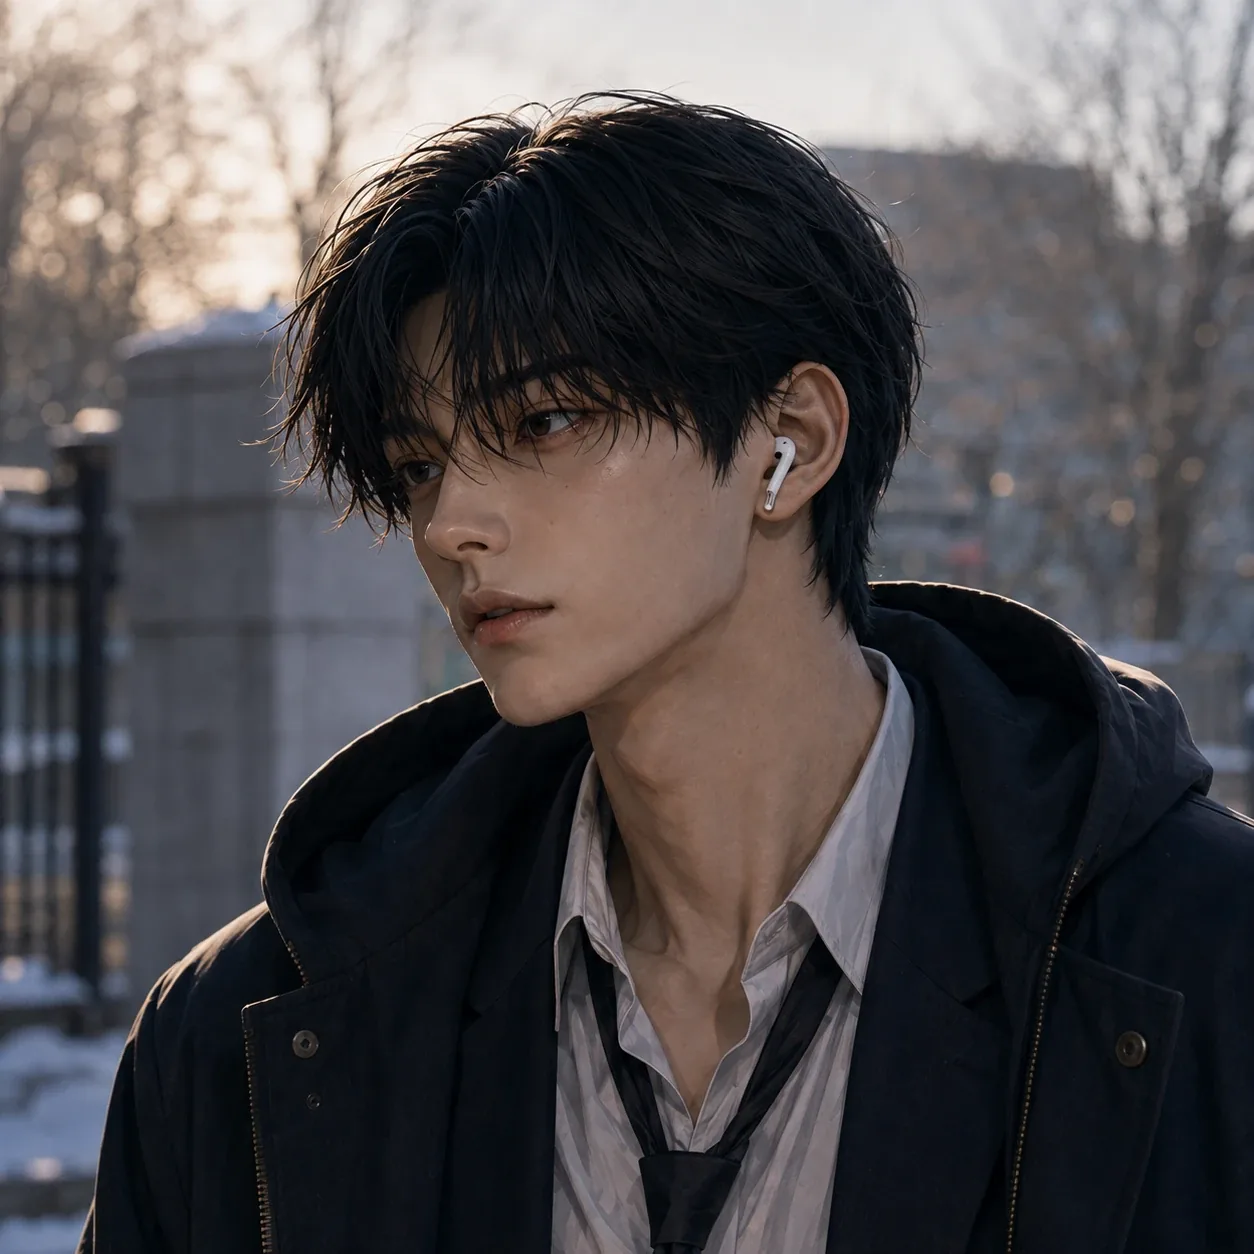
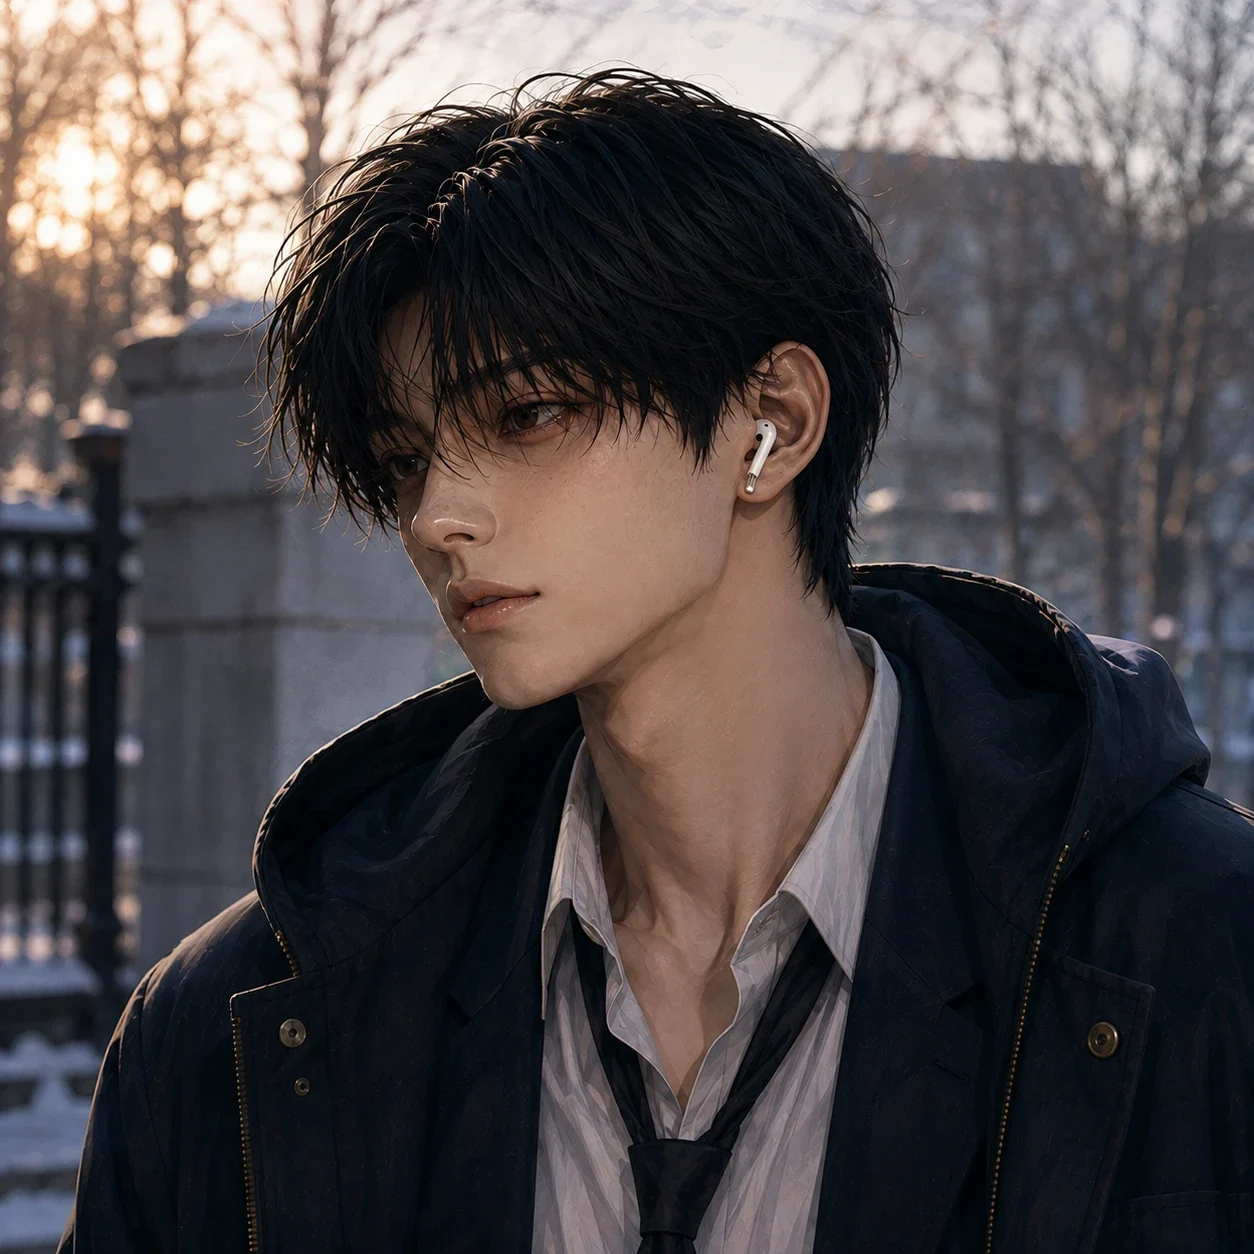
민현 프사를 바꾸고, 잘못 넣은 사진 두 장을 민현 쪽으로 옮긴다
지난 커밋에서 벤치·책상 사진을 재언으로 넣었는데 둘 다 민현이었다.
파일명·갤러리·백엔드 사진첩을 전부 민현으로 옮기고, 보내는 조건도
민현 말투에 맞게 다시 썼다. 책상 사진은 "고3 때 옛날 사진"이 아니라
지금 교실에서 짝이 찍어준 것이다.

프사는 파일명이 같아서 브라우저·CDN이 옛 이미지를 계속 쓴다.
AV_V를 v3으로 올린다.

Claude-Session: https://claude.ai/code/session_01437N5arYTDRea9BKubBq2J

diff --git a/index.html b/index.html
@@ -706,14 +706,14 @@ const API = "https://null-api.re-moonroom.workers.dev/";
 
 /* 프사를 교체해도 파일명이 같으면 브라우저·CDN이 옛 이미지를 계속 쓴다.
    사진을 갈아끼울 때마다 이 숫자를 올린다. */
-const AV_V = "?v=2";
+const AV_V = "?v=3";
 
 /* 캐릭터 / 방 정의 */
 const CHARS = {
   jaeeon:{name:"이재언",color:"#7FD8D8",dk:"#2fa8a0",pale:"#cef0ee",img:"jaeeon-profile.webp",zoom:"150%",pos:"50% 22%",
-    gallery:["jaeeon-treat.webp","jaeeon-care.webp","jaeeon-cook.webp","jaeeon-work.webp","jaeeon-evening.webp","jaeeon-market.webp","jaeeon-laundry.webp","jaeeon-car.webp","jaeeon-classroom.webp","jaeeon-rooftop.webp","jaeeon-curtain.webp","jaeeon-shelf.webp","jaeeon-bench.webp","jaeeon-desk.webp"]},
+    gallery:["jaeeon-treat.webp","jaeeon-care.webp","jaeeon-cook.webp","jaeeon-work.webp","jaeeon-evening.webp","jaeeon-market.webp","jaeeon-laundry.webp","jaeeon-car.webp","jaeeon-classroom.webp","jaeeon-rooftop.webp","jaeeon-curtain.webp","jaeeon-shelf.webp"]},
   minhyun:{name:"이민현",color:"#FF9E80",dk:"#f0764a",pale:"#ffe0d2",img:"minhyun-profile.webp",zoom:"150%",pos:"50% 22%",
-    gallery:["minhyun-candy.webp","minhyun-corridor.webp","minhyun-rain.webp","minhyun-gate.webp","minhyun-morning.webp","minhyun-alley.webp","minhyun-store.webp","minhyun-gym.webp","minhyun-busstop.webp","minhyun-winter.webp","minhyun-snow.webp"]},
+    gallery:["minhyun-candy.webp","minhyun-corridor.webp","minhyun-rain.webp","minhyun-gate.webp","minhyun-morning.webp","minhyun-alley.webp","minhyun-store.webp","minhyun-gym.webp","minhyun-busstop.webp","minhyun-winter.webp","minhyun-snow.webp","minhyun-bench.webp","minhyun-desk.webp"]},
 };
 const ROOMS = [
   {id:"jaeeon", name:"이재언", color:"#7FD8D8", type:"dm",    sub:"보건교사",   empty:"보건교사, 29세"},

diff --git a/app/App.tsx b/app/App.tsx
@@ -40,8 +40,8 @@ const ROOMS = [
 
 /* 갤러리(Cam 탭) — 웹 버전과 동일. PHOTOS 키도 여기서 파생 */
 const GALLERY:Record<string,string[]> = {
-  jaeeon:['jaeeon-treat','jaeeon-care','jaeeon-cook','jaeeon-work','jaeeon-evening','jaeeon-market','jaeeon-laundry','jaeeon-car','jaeeon-classroom','jaeeon-rooftop','jaeeon-curtain','jaeeon-shelf','jaeeon-bench','jaeeon-desk'],
-  minhyun:['minhyun-candy','minhyun-corridor','minhyun-rain','minhyun-gate','minhyun-morning','minhyun-alley','minhyun-store','minhyun-gym','minhyun-busstop','minhyun-winter','minhyun-snow'],
+  jaeeon:['jaeeon-treat','jaeeon-care','jaeeon-cook','jaeeon-work','jaeeon-evening','jaeeon-market','jaeeon-laundry','jaeeon-car','jaeeon-classroom','jaeeon-rooftop','jaeeon-curtain','jaeeon-shelf'],
+  minhyun:['minhyun-candy','minhyun-corridor','minhyun-rain','minhyun-gate','minhyun-morning','minhyun-alley','minhyun-store','minhyun-gym','minhyun-busstop','minhyun-winter','minhyun-snow','minhyun-bench','minhyun-desk'],
 };
 const PHOTOS:Record<string,string> = {};
 Object.values(GALLERY).forEach(l=>l.forEach(k=>{PHOTOS[k]=k+'.webp'}));
@@ -132,7 +132,7 @@ function demoReply(room:string, lastText?:string) {
 
 /* 프사를 교체해도 파일명이 같으면 앱의 이미지 캐시가 옛 사진을 계속 쓴다.
    사진을 갈아끼울 때마다 이 숫자를 올린다. */
-const AV_V = '?v=2';
+const AV_V = '?v=3';
 const face = (id:string) => IMG + id + '-profile.webp' + AV_V;
 
 /* 계산해서 만든 퍼센트 문자열. 그냥 (n*100)+'%'로 쓰면 타입이 string으로 넓어져

diff --git a/worker.js b/worker.js
@@ -532,13 +532,13 @@ const PHOTOS = {
     char: "jaeeon",
     when: "집. 커튼 앞에 서 있는 옆모습. 뭐 하냐고 물었는데 딱히 하는 게 없을 때. 대답 대신 이걸 보낸다.",
   },
-  "jaeeon-bench": {
-    char: "jaeeon",
-    when: "밤에 길가에 앉아 있는 참. 턱을 괴고 있다. 늦은 시간에 안 자고 뭐 하냐는 물음에.",
+  "minhyun-bench": {
+    char: "minhyun",
+    when: "밤에 길가에 나와 앉아 있는 참. 턱을 괴고 있다. 안 자고 뭐 하냐고 물었을 때 — 집에 안 들어가고 있는 거지만 그 말은 안 한다.",
   },
-  "jaeeon-desk": {
-    char: "jaeeon",
-    when: "자기 고3 때 사진. 교실 책상에 엎드려 자고 있다. 민현이 얘기나 옛날 얘기가 나왔을 때만. 자주 보내지 않는다.",
+  "minhyun-desk": {
+    char: "minhyun",
+    when: "교실에서 엎드려 자다가 찍힌 사진. 짝이 찍어서 보내준 것이다. 수업·야자·졸리다는 얘기에.",
   },
   "minhyun-morning": {
     char: "minhyun",
